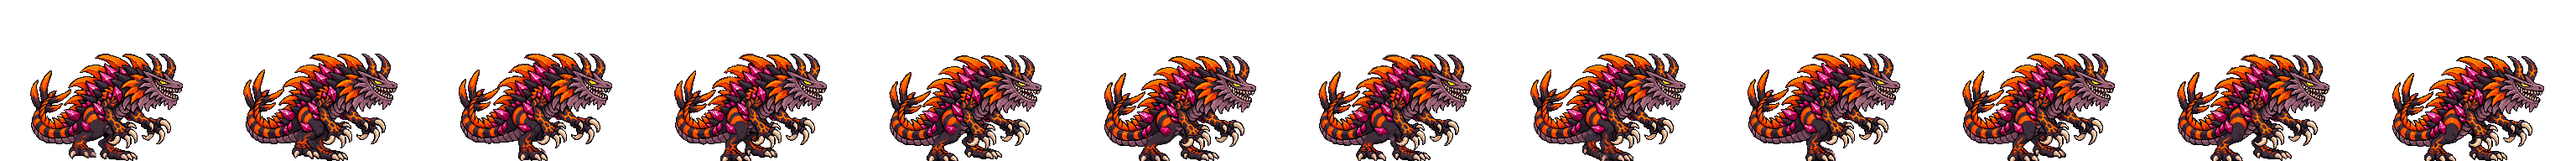
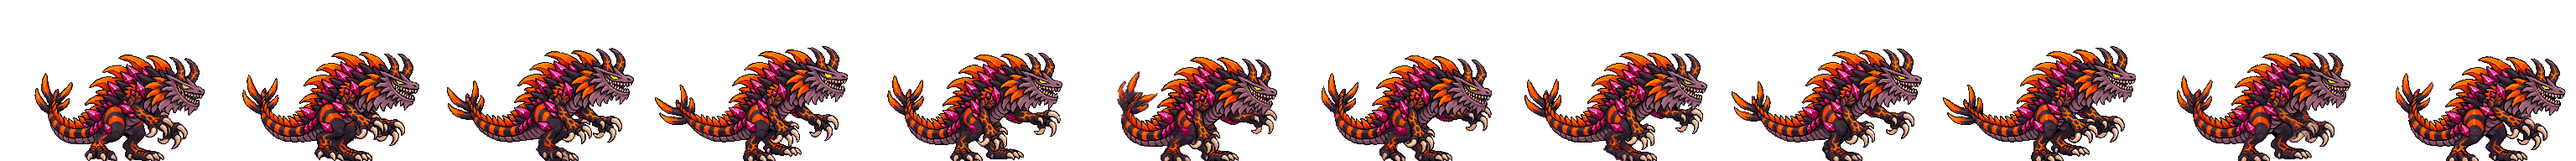
Give Tlézcatl Stage 3 walk full-body motion
The legs-only skeleton walk left the upper body riding stiffly. The poses
now sink the body 6px into each stomp, dip the head a beat late, roll the
shoulders and swing the raised arms opposite the legs; the reference
skeleton is the plain base. The prompt drives the tail, which swings out
as a counterweight, so the input is the base shifted 30px right (TZ3_WALK
anchor, sprite at x=63). Flat outline-less patches the model left on
frames 0, 1, 5 and 6 were keyed out; eye restored (frame 3 by offset).

Claude-Session: https://claude.ai/code/session_01SJ9dCyncznUfWVFLpjF6HR

diff --git a/src/presentation.ts b/src/presentation.ts
@@ -51,12 +51,16 @@ const TZ1_NATIVE={scale:128/256,anchor:64+128*128/256};
 const TZ1_LEFT={scale:128/256,anchor:24+128*128/256};
 // Tlézcatl Stage 3 strips: the tlezcatl-s3 base still, a 181x126 hunched sprite at x=37 in a 256x192 frame, keyed with tools/key_render.py.
 const TZ3_NATIVE={scale:181/256,anchor:37+128*181/256};
+// Tlézcatl Stage 3 walk: generated from the base shifted 30px right (room behind him for the swinging tail); the generation drew the
+// body about 4px left of that, so the sprite sits at x=63.
+const TZ3_WALK={scale:181/256,anchor:63+128*181/256};
 // Tlézcatl Stage 3 form (hunched volcanic dragon, crystal-spiked back, horned frilled head): idle (breathing loop) and walk (a bipedal
-// theropod stalk on the hind legs only, skeleton-posed so both feet run a full stride and pass each other, clawed hands held raised
-// in front of the chest, never touching the street; 12 frames at 15 fps, the 0.8s cycle of the other walks) so far. `borrow`: every other move plays the Stage 1 strip until Stage 3 art exists. Same
+// theropod stalk on the hind legs only, skeleton-posed so both feet run a full stride and pass each other, the body sinking into each
+// stomp, the head dipping a beat late, shoulders rolling and raised claws swinging, the tail swinging out as a counterweight; the
+// hands never touch the street; 12 frames at 15 fps, the 0.8s cycle of the other walks) so far. `borrow`: every other move plays the Stage 1 strip until Stage 3 art exists. Same
 // 120-unit width as Mogurodon's Stage 3, which makes him about 84 units tall, much bulkier than the flat Stage 1 salamander.
 const TLEZCATL_S3:Form={width:120,borrow:true,anims:{idle:{src:'assets/tlezcatl-s3-idle.png',frames:8,fps:8,...TZ3_NATIVE},
-  walk:{src:'assets/tlezcatl-s3-walk.png',frames:12,fps:15,...TZ3_NATIVE}}};
+  walk:{src:'assets/tlezcatl-s3-walk.png',frames:12,fps:15,...TZ3_WALK}}};
 // Kaiban Stage 1 strips: the kaiban-s1 base still, a 139px-wide sprite at x=58 keyed from the transparent render with tools/key_render.py.
 const KB1_NATIVE={scale:139/256,anchor:58+128*139/256};
 // Kaiban Stage 1 lunging strips: generated from the same base shifted 40px left (sprite at x=18) so lunges stay inside the frame.

diff --git a/tools/tlezcatl_s3_walk_poses.py b/tools/tlezcatl_s3_walk_poses.py
@@ -1,28 +1,34 @@
 #!/usr/bin/env python3
 """Script the skeleton poses for Tlézcatl Stage 3's theropod walk (PixelLab /animate-with-skeleton-v3).
 
-Usage: python3 tools/tlezcatl_s3_walk_poses.py DIR [FRAMES] [STRIDE_PX] [LIFT_PX]   (shipped: DIR 12 26 9)
+Usage: python3 tools/tlezcatl_s3_walk_poses.py DIR [FRAMES] [STRIDE_PX] [LIFT_PX] [DX]   (shipped: DIR 12 26 9 30)
 
 DIR holds skel.json, the /estimate-skeleton result for the Stage 3 base padded to 256x256 (sprite feet on the bottom row,
-i.e. tlezcatl-s3.png pasted 64px down; a copy is tools/tlezcatl-s3-skeleton.json). Writes DIR/poses.json ({first, frames})
+i.e. tlezcatl-s3.png pasted 64px down; a copy is tools/tlezcatl-s3-skeleton.json). DX shifts everything right to match a
+base pasted DX px right: the walking tail swings out as a counterweight and needs the room behind him. Writes DIR/poses.json ({first, frames})
 and DIR/poses_sheet.png, a stick-figure preview over the base, so poses can be checked before paying for a generation.
 
 The estimate's head, neck and shoulders are kept. Corrections: the ankles go down onto the feet and the wrists out onto the
 raised claws. The hips are moved together over the stride centre. The walk is bipedal. The two hind feet run the SAME step
 cycle about a shared centre, half a cycle apart, so they pass each other: planted and sliding back along the ground line,
 then lifted and carried forward. Feet that each step around their own spot never pass, and the walk reads as a limp. Frame
-0 (the base) is full stride, near foot forward. Knees come from two-bone IK, bending forward. The body (head, shoulders,
-arms) rises a few px as the legs pass and sinks at full stride. The hands stay raised in front of the chest and never
-come down to the street. Run from the repo root.
+0 (the base) is full stride, near foot forward. Knees come from two-bone IK, bending forward. The upper body moves with
+the gait so it does not ride the legs stiffly: it sinks into each footfall and rises as the legs pass, the head dips a
+beat late and pitches with it, the shoulders roll (the one over the planted leg drops), and the arms swing opposite the
+legs about the shoulders. The hands stay raised in front of the chest and never come down to the street. The tail has
+no joints in the skeleton; the generation prompt asks for its sway. Run from the repo root.
 """
 import json, math, sys
 S = sys.argv[1]; N = int(sys.argv[2]) if len(sys.argv) > 2 else 12
 STR = float(sys.argv[3]) if len(sys.argv) > 3 else 26; LIFT = float(sys.argv[4]) if len(sys.argv) > 4 else 9
+DX = int(sys.argv[5]) if len(sys.argv) > 5 else 0   # base shifted DX px right (room for the swinging tail)
 kp = json.load(open(f'{S}/skel.json'))['keypoints']
 base = {p['label']: [p['x'] * 256, p['y'] * 256] for p in kp}; z = {p['label']: int(round(p['z_index'])) for p in kp}
 GROUND, CX = 251, 114            # ankle height on the street; stride centre (the base's feet sit at 140 and 88)
 base['LEFT ARM'] = [186, 212]; base['RIGHT ARM'] = [151, 226]   # wrists on the far and near claws
 base['LEFT HIP'] = [122, 206]; base['RIGHT HIP'] = [108, 204]
+for k in base: base[k][0] += DX
+CX += DX
 L1, L2 = 26.0, 30.0               # thigh and shin
 BODY = ['NOSE', 'LEFT EYE', 'RIGHT EYE', 'LEFT EAR', 'RIGHT EAR', 'NECK', 'LEFT SHOULDER', 'RIGHT SHOULDER',
         'LEFT ELBOW', 'RIGHT ELBOW', 'LEFT ARM', 'RIGHT ARM', 'LEFT HIP', 'RIGHT HIP']
@@ -33,10 +39,13 @@ def leg(hip, ft):
     kx, ky = ux * math.cos(ang) + uy * math.sin(ang), -ux * math.sin(ang) + uy * math.cos(ang)   # knee toward +x
     return [hip[0] + L1 * kx, hip[1] + L1 * ky], [hip[0] + D * ux, hip[1] + D * uy]
 
-def pose(ph):
-    q = {k: v[:] for k, v in base.items()}
-    rise = 3 * abs(math.sin(ph))          # legs passing at ph = pi/2, 3pi/2
-    for k in BODY: q[k][1] -= rise
+HEAD = ['NOSE', 'LEFT EYE', 'RIGHT EYE', 'LEFT EAR', 'RIGHT EAR']
+BOB, HEADBOB, ROLL, ARM = 6.0, 4.0, 2.5, math.radians(14)   # shipped motion amounts (px, px, px, radians)
+
+def rot(p, c, t):  # rotate p about c by t (positive = forward/up, y down)
+    dx, dy = p[0] - c[0], p[1] - c[1]; return [c[0] + dx * math.cos(t) + dy * math.sin(t), c[1] - dx * math.sin(t) + dy * math.cos(t)]
+
+def legs(q, ph):
     for side, sgn in (('LEFT', 1), ('RIGHT', -1)):
         # LEFT: forward at ph 0, slides back through stance (0..pi), swings forward (pi..2pi). RIGHT: half a cycle behind.
         d = sgn * STR * math.cos(ph); lift = LIFT * max(0, -sgn * math.sin(ph))
@@ -45,12 +54,34 @@ def pose(ph):
     for k in q: q[k][1] += GROUND - low
     return q
 
+# The reference skeleton (first) is the plain base: motion=False skips the arm swing and head dip, which are not at rest at ph 0.
+def pose(ph, motion=True):
+    q = {k: v[:] for k, v in base.items()}
+    if not motion: ph = 0
+    # Body bob: lowest at each heavy footfall (full stride, ph 0 and pi), highest as the legs pass. Two bobs per cycle.
+    rise = BOB * abs(math.sin(ph))
+    for k in BODY: q[k][1] -= rise
+    if not motion: return legs(q, ph)
+    # Head: dips into each footfall a beat late (follow-through), then lifts; pitches the snout down with the dip.
+    hb = HEADBOB * math.cos(2 * ph - 0.9)
+    for k in HEAD + ['NECK']: q[k][1] += hb * (0.6 if k == 'NECK' else 1)
+    for k in HEAD: q[k] = rot(q[k], q['NECK'], -math.radians(4) * math.cos(2 * ph - 0.9))
+    # Shoulders roll with the stride: the shoulder over the planted leg drops, the other rises (and surges forward a touch).
+    for side, sgn in (('LEFT', 1), ('RIGHT', -1)):
+        r = sgn * ROLL * math.sin(ph)
+        for k in (f'{side} SHOULDER', f'{side} ELBOW', f'{side} ARM'): q[k][1] += r; q[k][0] -= 0.6 * r
+        # Arms swing opposite the same-side leg about the shoulder (forearm trailing), staying raised in front of the chest.
+        t = -sgn * ARM * math.cos(ph)
+        sh = q[f'{side} SHOULDER']; el = rot(q[f'{side} ELBOW'], sh, t); wr = rot(q[f'{side} ARM'], sh, t)
+        q[f'{side} ELBOW'], q[f'{side} ARM'] = el, rot(wr, el, 0.5 * t)
+    return legs(q, ph)
+
 def kps(q): return [{'x': min(max(q[k][0] / 256, 0), 1), 'y': min(max(q[k][1] / 256, 0), 1), 'label': k, 'z_index': z[k]} for k in q]
-first = pose(0); frames = [pose(2 * math.pi * i / N) for i in range(1, N + 1)]
+first = pose(0, motion=False); frames = [pose(2 * math.pi * i / N) for i in range(1, N + 1)]
 json.dump({'first': kps(first), 'frames': [kps(f) for f in frames]}, open(f'{S}/poses.json', 'w'))
 
 from PIL import Image, ImageDraw
-im = Image.open('public/assets/tlezcatl-s3.png'); pad = Image.new('RGBA', (256, 256)); pad.paste(im, (0, 64))
+im = Image.open('public/assets/tlezcatl-s3.png'); pad = Image.new('RGBA', (256, 256)); pad.paste(im, (DX, 64))
 bones = [('NECK', 'LEFT SHOULDER'), ('NECK', 'RIGHT SHOULDER'), ('LEFT SHOULDER', 'LEFT ELBOW'), ('LEFT ELBOW', 'LEFT ARM'),
          ('RIGHT SHOULDER', 'RIGHT ELBOW'), ('RIGHT ELBOW', 'RIGHT ARM'), ('NECK', 'LEFT HIP'), ('NECK', 'RIGHT HIP'),
          ('LEFT HIP', 'LEFT KNEE'), ('LEFT KNEE', 'LEFT LEG'), ('RIGHT HIP', 'RIGHT KNEE'), ('RIGHT KNEE', 'RIGHT LEG'), ('NECK', 'NOSE')]
@@ -59,6 +90,6 @@ for i, f in enumerate([first] + frames):
     c = Image.new('RGBA', (256, 256), (40, 40, 60, 255)); g = pad.copy(); g.putalpha(g.getchannel('A').point(lambda a: a * 0.3)); c.alpha_composite(g)
     d = ImageDraw.Draw(c)
     for a, b in bones: d.line([tuple(f[a]), tuple(f[b])], fill=(0, 255, 255) if 'LEFT' in a + b else (255, 255, 0), width=2)
-    sheet.paste(c.crop((40, 126, 240, 256)), ((i % cols) * 200, (i // cols) * 130))
+    sheet.paste(c.crop((40 + DX, 126, 240 + DX, 256)), ((i % cols) * 200, (i // cols) * 130))
 sheet.save(f'{S}/poses_sheet.png')
 print(f'{S}/poses.json: {N} frames, stride +-{STR}px, lift {LIFT}px')

diff --git a/README.md b/README.md
@@ -68,7 +68,7 @@ Score is earned points minus actual HP damage penalty, including healed damage. 
 
 **Tlézcatl Stage 1 art (just started, the base form):** `tlezcatl-s1.png` is the low-slung volcanic salamander (dark purple hide, lava-orange stripes, flame-spine crest, yellow eye), keyed from the transparent render with `tools/key_render.py` (grid 11.165x10.725 px per art pixel) to a 128x59 sprite at x=64, feet on the bottom row of a 256x192 frame (`TZ1_NATIVE`: scale 128/256, anchor 128). `tlezcatl-s1-idle` (breathing loop, 8 fps) and `tlezcatl-s1-walk` (sprawling lizard crawl, 10 fps) are 8-frame PixelLab strips generated from the base with it as the last frame so they loop. PixelLab dulled the eye to orange, so `fix_eye.py --ref tlezcatl-s1.png --region 157,161,175,182 --radius 10` restores it (the default colour test also matches the orange spines, hence the tight box), then `fill_pinholes.py` and `remove_specks.py`; walk frame 2 was bottom-aligned (1px). `tlezcatl-s1-run` (Shift / double-tap, 15 fps) is an 8-frame bounding sprint generated from the base with it as the last frame (seed 0; seed 7 was only a stretched walk), body low and long with a lift on frame 4 and dust kicked back; eye restored with the same `fix_eye.py` call, then `fill_pinholes.py` and `remove_specks.py`. Width 120 like the others, which makes him about 55 units tall at Stage 1, lower than Kaiban, since he is built long and flat. The light combo (`TZ1_LEFT`: the base shifted 40px left to x=24, anchor 88, so the lunges stay in the frame; 8-frame strips at Stage 1's 24/21/20 fps, each ending on that shifted base): `tlezcatl-s1-light1` is a near-claw rake that reaches past the snout with an orange slash arc on frame 3 (seed 21; the default seed lifted the paw over the back and swept the arc behind him); `tlezcatl-s1-light2` is a snapping lunge bite, head and shoulders shooting forward low with the jaws gaping; `tlezcatl-s1-light3` is a scorpion tail whip, the tail curling up over the back and cracking down in front of the snout with a small spark on frame 4 (seed 7; the default seed's impact explosion was half his body length). Eyes restored with `fix_eye.py --ref` (the shifted base) `--region 157,161,135,142 --radius 14 --max-err 9000`; the bite's reared, gaping frames 1-4 fail the match, so their dulled orange eye blobs were recoloured to the base's yellow by row instead. Then `fill_pinholes.py` and `remove_specks.py` (MAX 12, the bite's spatter and the whip's trailing dust). The heavy (also `TZ1_LEFT`, Stage 1 timing) is cut from one 16-frame rear-and-slam generation from the shifted base, closed on it (seed 7; seed 0 flared the crest off the top of the frame): `tlezcatl-s1-heavy-rear` (frames 0-4: draws back and rears up onto the hind legs and tail, claws raised, 20 fps) and `tlezcatl-s1-heavy-slam` (frames 8-15: crashes chest and claws into the street in a lava burst, dust trails off, settles into the crouch, 16 fps; it starts on the crash, so the hit shows the moment K is released). `tlezcatl-s1-heavy-hold` is a 4-frame loop generated from the peak pose (seed 7) in which the crest glows and then bursts into real flame; played as frames 0,2,3,2 so it pulses instead of snapping back (10 fps). PixelLab dulled the eye again and the reared head defeats `fix_eye.py`'s matcher, so the orange eye blobs on rear 1-4, every hold frame and slam 3-6 were recoloured to the base's yellow by row (slam 7 matched the base normally). Then `fill_pinholes.py` and `remove_specks.py` (MAX 12; MAX 4 on the hold so the flame licks survive). Flame Jet strips (`TZ1_LEFT`): PixelLab painted fire into the wind-up even when told not to, so `tlezcatl-s1-jet-start` (5 frames, 22 fps) is frames 0 and 2 of an inhale-and-gape generation (seed 0, the inhale), two in-betweens from a 4-frame generation bridging its frame 2 to its fire-free last frame (seed 3, prompted without any fire words), and that last frame, the jaws-wide breath pose. `tlezcatl-s1-jet-aim` (5 frames, never played) is that pose aimed -20/0/10/22/35 degrees: frame 8 of a head-lowering sweep from it (the head barely dips; a steeper re-roll closed the jaws), the pose itself, and frames 1-3 of a head-raising sweep (seed 3); `mouth` points are the front of the red mouth interior per frame. `tlezcatl-s1-jet-end` (4 frames, 16 fps) is a generation from the breath pose to the shifted base (jaws snap shut, settles). Eyes recoloured by blob (small orange islands ringed by outline) on every frame, then `fill_pinholes.py` and `remove_specks.py` (MAX 12). The crouch (`TZ1_NATIVE`, the unshifted base; Stage 1 timing): `tlezcatl-s1-crouch-down` (5 frames, seed 0: splays the legs and presses belly and chin flat to the street with the crest laid back, 59px tall to 37px, about the 38-unit crouch hitbox, 22 fps), `tlezcatl-s1-crouch` (a 4-frame breathing loop lying flat, frames 1-4 of a generation from that pose with it as the end pose, since its last frame closes on the first, 6 fps) and `tlezcatl-s1-crouch-up` (crouch-down reversed). Eyes recoloured by blob (frame 1 also has a crest marking that passes the blob test, left alone), then `fill_pinholes.py` and `remove_specks.py` (MAX 12). The climb set (256x256, `TZ1_NATIVE`, generated from the base padded to 256 tall with the feet on the bottom row) clings like a gecko: body vertical, belly to the wall, head up, tail hanging, with the gripping claws on the wall line at frame x=154 (the 24-unit hitbox edge at this scale). PixelLab drew no wall for any of them. `tlezcatl-s1-climb-grab` is frames 0-3 and 8 of an 8-frame leap onto the wall (seed 7; seed 0 snapped straight from the crouch to the cling), every frame bottom-aligned with the claws easing 46px onto the wall line; `tlezcatl-s1-climb` (seed 7) is a hand-over-hand loop closed on the cling pose; `tlezcatl-s1-climb-punch` draws the upper claw back and slams it into the wall with a flash on impact frame 5 (seed 3; the first roll twisted round and struck away from the wall, so the prompt pins the strike to the right); `tlezcatl-s1-climb-mantle` hauls onto the roof, landing upright and dropping onto all fours, ending on the base pose, bottom-aligned with the shift starting 15px further back (the game's 0.3-body-width roof slide) and easing to 0. The cling, climb and punch frames are shifted 46px left and 75px down (tail tip on the bottom row). Eyes recoloured by blob; where no blob was found, from the neighbouring frames' head position and checked by eye (the punch's frames 5-6 needed a looser colour test for a darker orange). Then `fill_pinholes.py` and `remove_specks.py` (MAX 12; MAX 4 on the punch so its sparks survive). Frame counts, fps and impact match the other forms. Grab/carry/throw (`TZ1_NATIVE`, Stage 1 timing, all generated without any object): `tlezcatl-s1-grab` (9 frames, seed 7; seed 0 barely scooped) dips the snout and slides both front claws under the prop at the street, then rears up onto the hind legs and tail with both claws pressed overhead, head thrown back; `tlezcatl-s1-carry` (4-frame loop from the grab's last frame, closed on it) strains upright with the claws locked up; `tlezcatl-s1-carry-walk` (8-frame loop, closed the same way) waddles forward upright; `tlezcatl-s1-throw` (8 of 9 generated frames, the near-duplicate frame 1 dropped so the swing arcs land on frame 1 as the prop launches on the key press) whips both claws forward and down and drops back onto all fours, ending on the base pose. `hold` points: grab frames 0-3 keep the prop on the street in front of the claws, frame 4 lifts it at the front claws, then they sit midway between the two raised claws on the claw tips. Eyes recoloured by blob on grab 1-4 and throw 4-8 (the upright frames show no eye), carry, carry-walk and throw bottom-aligned (1-3px), then `fill_pinholes.py` and `remove_specks.py` (MAX 12; MAX 4 on the throw so the arcs survive). The Stage 1 form is the base, drawn at Stages 1 and 2; Stage 3 has its own form (below). The Mexico City rival is still the geometric stand-in. `tlezcatl-s1-dive` (4 frames: frames 0-3 of a 9-frame generation, tipping nose-down from the base into a vertical head-first plunge, bottom-aligned, held on the last) and `tlezcatl-s1-slam-land` (frames 1-8 of a generation from that plunge on the street with the base as the last frame: the snout drives in with a lava burst both sides, belly-flop, push back up) are `TZ1_NATIVE`; pinholes filled.
 
-**Tlézcatl Stage 3 art (started, registered as `stages[3]` with `borrow`):** `tlezcatl-s3.png` is the hunched volcanic dragon (crystal-spiked back, flame spines, horned frilled head, curled striped tail). `tools/key_render.py` locked onto the half-period harmonic of the render's grid (362 px wide, a 2-cell outline), so it was rerun with `--width 181`: grid 8.006 px, a 181x126 sprite at x=37, feet on the bottom row of a 256x192 frame (`TZ3_NATIVE`: scale 181/256, anchor 127.5). Width 120 like Mogurodon's Stage 3, about 84 units tall. `tlezcatl-s3-idle` (breathing loop, 8 fps) and `tlezcatl-s3-walk` (bipedal theropod stalk, 12 frames at 15 fps, a 0.8s cycle like the other walks). The idle is an 8-frame PixelLab strip from the base with it as the last frame; the eye went dull in every generated frame and `fix_eye.py --ref tlezcatl-s3.png --region 96,104,189,200 --radius 10` restores it, then `fill_pinholes.py` and `remove_specks.py`. The walk is on the hind legs only, with the clawed hands held raised in front of the chest and never touching the street. Text prompts produced limps (each foot stepped around its own spot and never passed the other), so it is a skeleton animation (`/animate-with-skeleton-v3`, 3 generations, seed 0) through `tools/pixellab_skeleton.py`. `tools/tlezcatl_s3_walk_poses.py` scripts the 12 poses from `/estimate-skeleton` of the base padded to 256x256 (copy in `tools/tlezcatl-s3-skeleton.json`; ankles moved down onto the feet, wrists out onto the raised claws, hips moved together). Both hind feet run the same step cycle (+-26px about a shared centre, planted and sliding back, then lifted 9px and carried forward, knees from two-bone IK), half a cycle apart, so they pass each other; the body rises 3px as the legs pass. Seed 7 swung the tail out to the frame edge. The 256x256 output was cropped back to 256x192 and shifted 3px right, because the generation drew the body 3px left of the base. Then the same eye fix and `fill_pinholes.py`. Every other move borrows the Stage 1 strip until Stage 3 art exists.
+**Tlézcatl Stage 3 art (started, registered as `stages[3]` with `borrow`):** `tlezcatl-s3.png` is the hunched volcanic dragon (crystal-spiked back, flame spines, horned frilled head, curled striped tail). `tools/key_render.py` locked onto the half-period harmonic of the render's grid (362 px wide, a 2-cell outline), so it was rerun with `--width 181`: grid 8.006 px, a 181x126 sprite at x=37, feet on the bottom row of a 256x192 frame (`TZ3_NATIVE`: scale 181/256, anchor 127.5). Width 120 like Mogurodon's Stage 3, about 84 units tall. `tlezcatl-s3-idle` (breathing loop, 8 fps) and `tlezcatl-s3-walk` (bipedal theropod stalk, 12 frames at 15 fps, a 0.8s cycle like the other walks). The idle is an 8-frame PixelLab strip from the base with it as the last frame; the eye went dull in every generated frame and `fix_eye.py --ref tlezcatl-s3.png --region 96,104,189,200 --radius 10` restores it, then `fill_pinholes.py` and `remove_specks.py`. The walk is on the hind legs only, with the clawed hands held raised in front of the chest and never touching the street. Text prompts produced limps (each foot stepped around its own spot and never passed the other), so it is a skeleton animation (`/animate-with-skeleton-v3`, 3 generations, seed 0) through `tools/pixellab_skeleton.py`. `tools/tlezcatl_s3_walk_poses.py DIR 12 26 9 30` scripts the 12 poses from `/estimate-skeleton` of the base padded to 256x256 (copy in `tools/tlezcatl-s3-skeleton.json`; ankles moved down onto the feet, wrists out onto the raised claws, hips moved together). Both hind feet run the same step cycle (+-26px about a shared centre, planted and sliding back, then lifted 9px and carried forward, knees from two-bone IK), half a cycle apart, so they pass each other. A legs-only version left the rest of him stiff, so the upper body moves with the gait: it sinks 6px into each stomp and rises as the legs pass, the head dips 4px a beat late and pitches with it, the shoulders roll, and the arms swing +-14 degrees opposite the legs. The reference skeleton is the plain base, since the swing is not at rest at phase 0. The prompt asks for the tail sway (the skeleton has no tail joints): it swings out straight as a counterweight on each stride and recoils. That needed room, so the generation input is the base shifted 30px right (DX 30); the body came out about 4px left of that, hence `TZ3_WALK` (sprite x=63, anchor 63+128*181/256). Seed 11 snapped the tail between curled and straight in one frame. The model left flat opaque (142,102,106) patches with no outline between the legs and beside the tail on frames 0, 1, 5 and 6 (a colour absent from the base); they were keyed out (connected areas of 8+ px within 10 of it). Then the output was cropped back to 256x192, the eye restored with `fix_eye.py --ref` (the base shifted 30px) `--region 96,104,219,230 --radius 10 --offset 3:-10,-5` (frame 3 matched the jaw, so it takes frame 9's offset, the cycle being symmetric), then `fill_pinholes.py` and `remove_specks.py` (MAX 12). Every other move borrows the Stage 1 strip until Stage 3 art exists.
 
 **Per-stage forms:** `SPRITES[name]` is the base form (for Mogurodon, the art above is its Stage 2 design, also used for Stage 3); `stages[n]` overrides it for one stage. Inside a stage form a missing strip falls back to that form's own `idle`, while gameplay timing (`animDuration`/`animImpact`) borrows the base strip's, so combat is unchanged until a form's strips are animated. Mogurodon Stage 1 (`assets/mogurodon-s1.png`) is the transparent render keyed with `tools/key_render.py` (grid 9.30x9.095 px per art pixel): a 151x113 native sprite at x=52, feet on the bottom row of a 256x192 frame. All 25 Stage 1 strips are generated from it with PixelLab and registered with `S1_NATIVE` (scale 151/256, anchor 127.5); frame counts, fps and impact frames match the previous art. The old padded bases (`mogurodon-s1-pad.png`, `mogurodon-s3-pad.png`) and `S1_PAD` are gone. Moves: idle and walk loops; light combo near (left) paw swipe, far (right) paw swipe (prompted with the near leg pinned so the far paw rises behind the head and slashes across) and lunge-bite; heavy rear/slam cut from one 16-frame generation (rear 0-4, slam 8-15) plus a hold loop from the peak; no tail, so the ranged shot arches the back like a hissing cat with the quills bristling (standing and crouched); crouch down/loop/up; jump rise, a 4-frame airborne gallop (frames 1-4 of its generation) and landing; Seismic Rupture howl (9 of 17 frames, 0,2,3,6,9,12,13,14,16, crash with the dust burst on impact frame 5) and a two-paw pound loop; climb with the gripping paws on the wall line at frame x=158 (PixelLab painted a thin brown post at x=215, erased with `post.py`-style column detection since the paws cut it into short pieces; the mantle starts 18px back and eases to 0); grab, carry and carry-walk with per-frame `hold` points (grab frame 7 holds at the forward paws mid-lift) and a throw generated without any object. Gold eye restored against the base plus crouch, heavy-peak and Ultimate-pose references; the reared carry pose tips the head back behind the arms, so carry frames have no eye. Add strips to `stages[1].anims`. Mogurodon Stage 3 (`assets/mogurodon-s3.png`) is the transparent render keyed with `tools/key_render.py`, which measures the render's real pixel grid (about 8.055x7.77 px per art pixel, offset) and keys by alpha, so the sprite keeps its outline and comes out at native resolution: 173x134 at x=41, feet on the bottom row of a 256x192 frame. Every Stage 3 strip is generated from it with PixelLab and registered with `S3_NATIVE` (scale 173/256, anchor 127.5) so it draws at the old width and foot position; frame counts, fps and impact frames match the previous art, so combat timing is unchanged. (The previous base was keyed from a black-background render by brightness on an assumed 8px grid, which ate the outline and joint creases and doubled pixels unevenly; every strip inherited the gaps.) Idle and walk are loops closed with the base as first and last frame. Light combo: near-arm (left) strike with a short pink streak, swipe with the other arm: the arm hanging against the chest winds back behind the body, arcs over and slashes forward past the snout with a pink arc while the leading arm stays put (generated with the base as the last frame so it settles back; earlier versions swung the leading arm again with a floating extra fist behind the head), low lunge-bite. Heavy: one 17-frame rear-and-slam generation cut into `heavy-rear` (frames 0-4) and `heavy-slam` (frames 8-14 and 16: crash with dust and crystal shards, settle), plus a 4-frame `heavy-hold` from the peak pose (re-rolled: a "trembling" prompt scattered dark specks). The reared peak touches the top of the 192px frame. Jump: rise, 4-frame air loop from its last frame and landing, bottom-aligned, landing debris stripped. Ranged: tail whips over the back; the detached shard PixelLab drew (it flew backwards) is erased since the game draws the projectile; the crouched shot flicks the tail while staying flat. Crouch: crouch-down, breathing loop from its last frame, crouch-up = crouch-down reversed. Climb (256x256): PixelLab paints a wall even when told not to; `tools/remove_wall.py` and a wall-line pass erase it, and the wall frames are shifted so the gripping claws sit on the wall line at frame x=162 (hitbox edge, 24 world units from the origin). The mantle starts a further 21px back (the game slides him 0.3 body widths onto the roof) and eases to 0 by its base-pose last frame. Ultimate: the roar is 8 of a 17-frame generation (frames 0,1,2,4,9,11,13,16) so the crash into the crystal eruption lands on impact frame 5; the 16-frame pound loop slams the near claw then the far claw with dust and sparks. Grab/carry/throw: the grab scoops then rears with both claws overhead (a rock PixelLab drew in frame 1 is erased); carry and carry-walk loop from its last frame and the throw ends on the base pose. Grab, carry and carry-walk have per-frame `hold` points measured on the fists. PixelLab washes the gold eye out after frame 0, so `tools/fix_eye.py` restores it against the base and, for frames it cannot match, against wide-search references for the crouch, carry and heavy-peak poses; `--max-err 9000` skips frames where the head is turned or hidden (grab scoop frames 2-5, the upright roar, the head-down pound loop). Every strip then gets `fill_pinholes.py` and `remove_specks.py`. Request PixelLab frame counts in multiples of 4 (the strip gets the input frame plus that many). Add further strips to `stages[3].anims`. `tools/prep_form_base.py` keys a black-background render and fits it into a frame for that.
 
